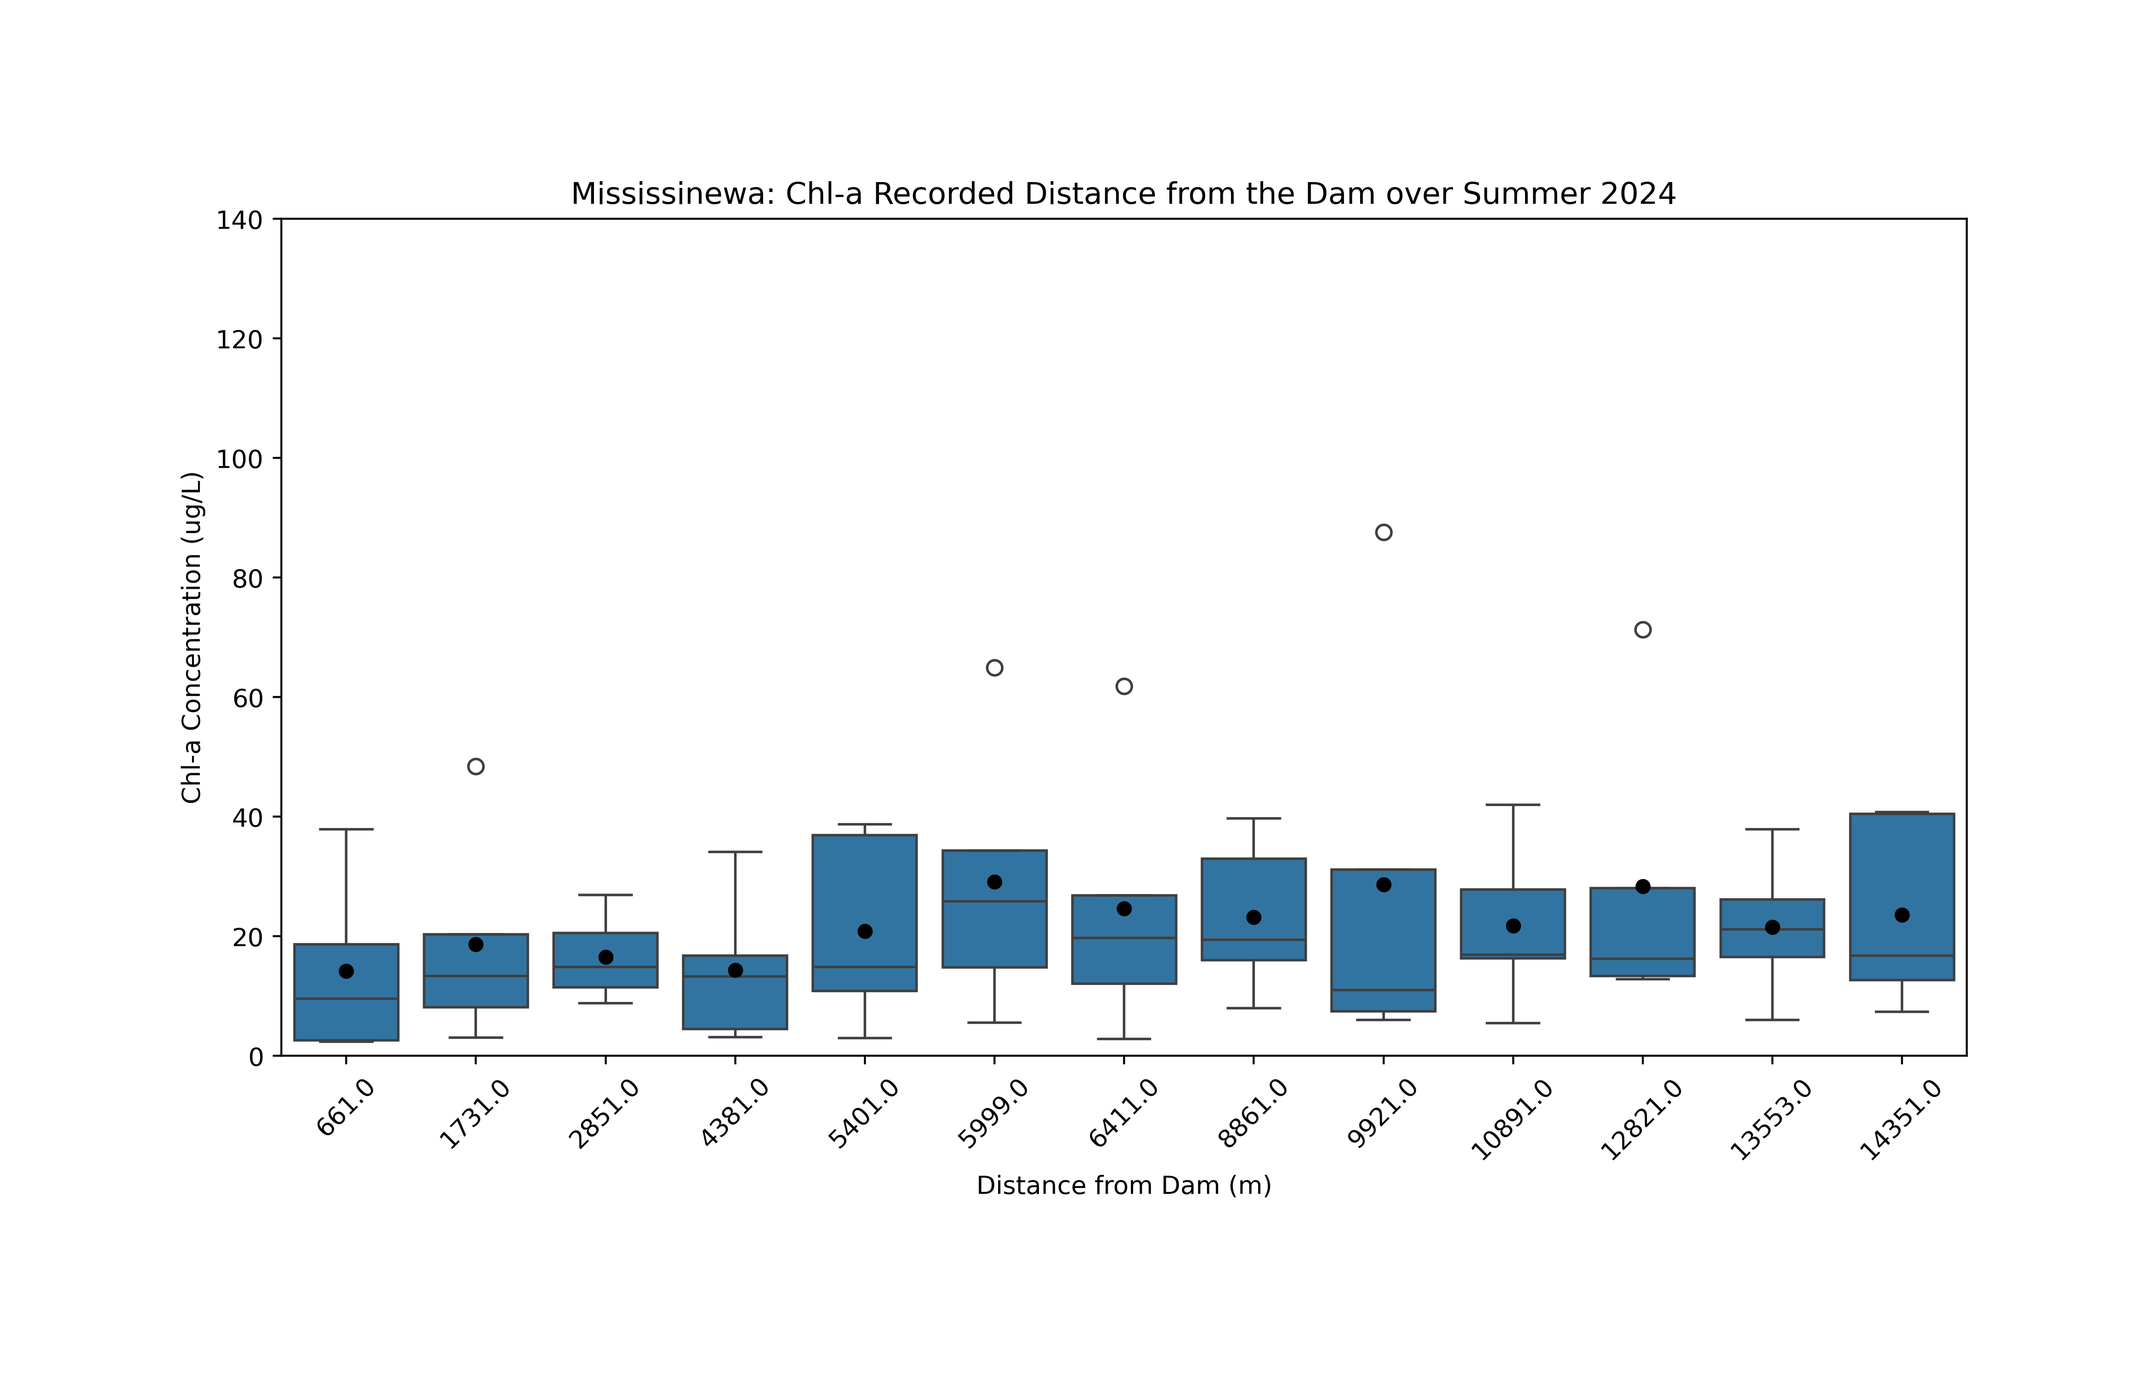
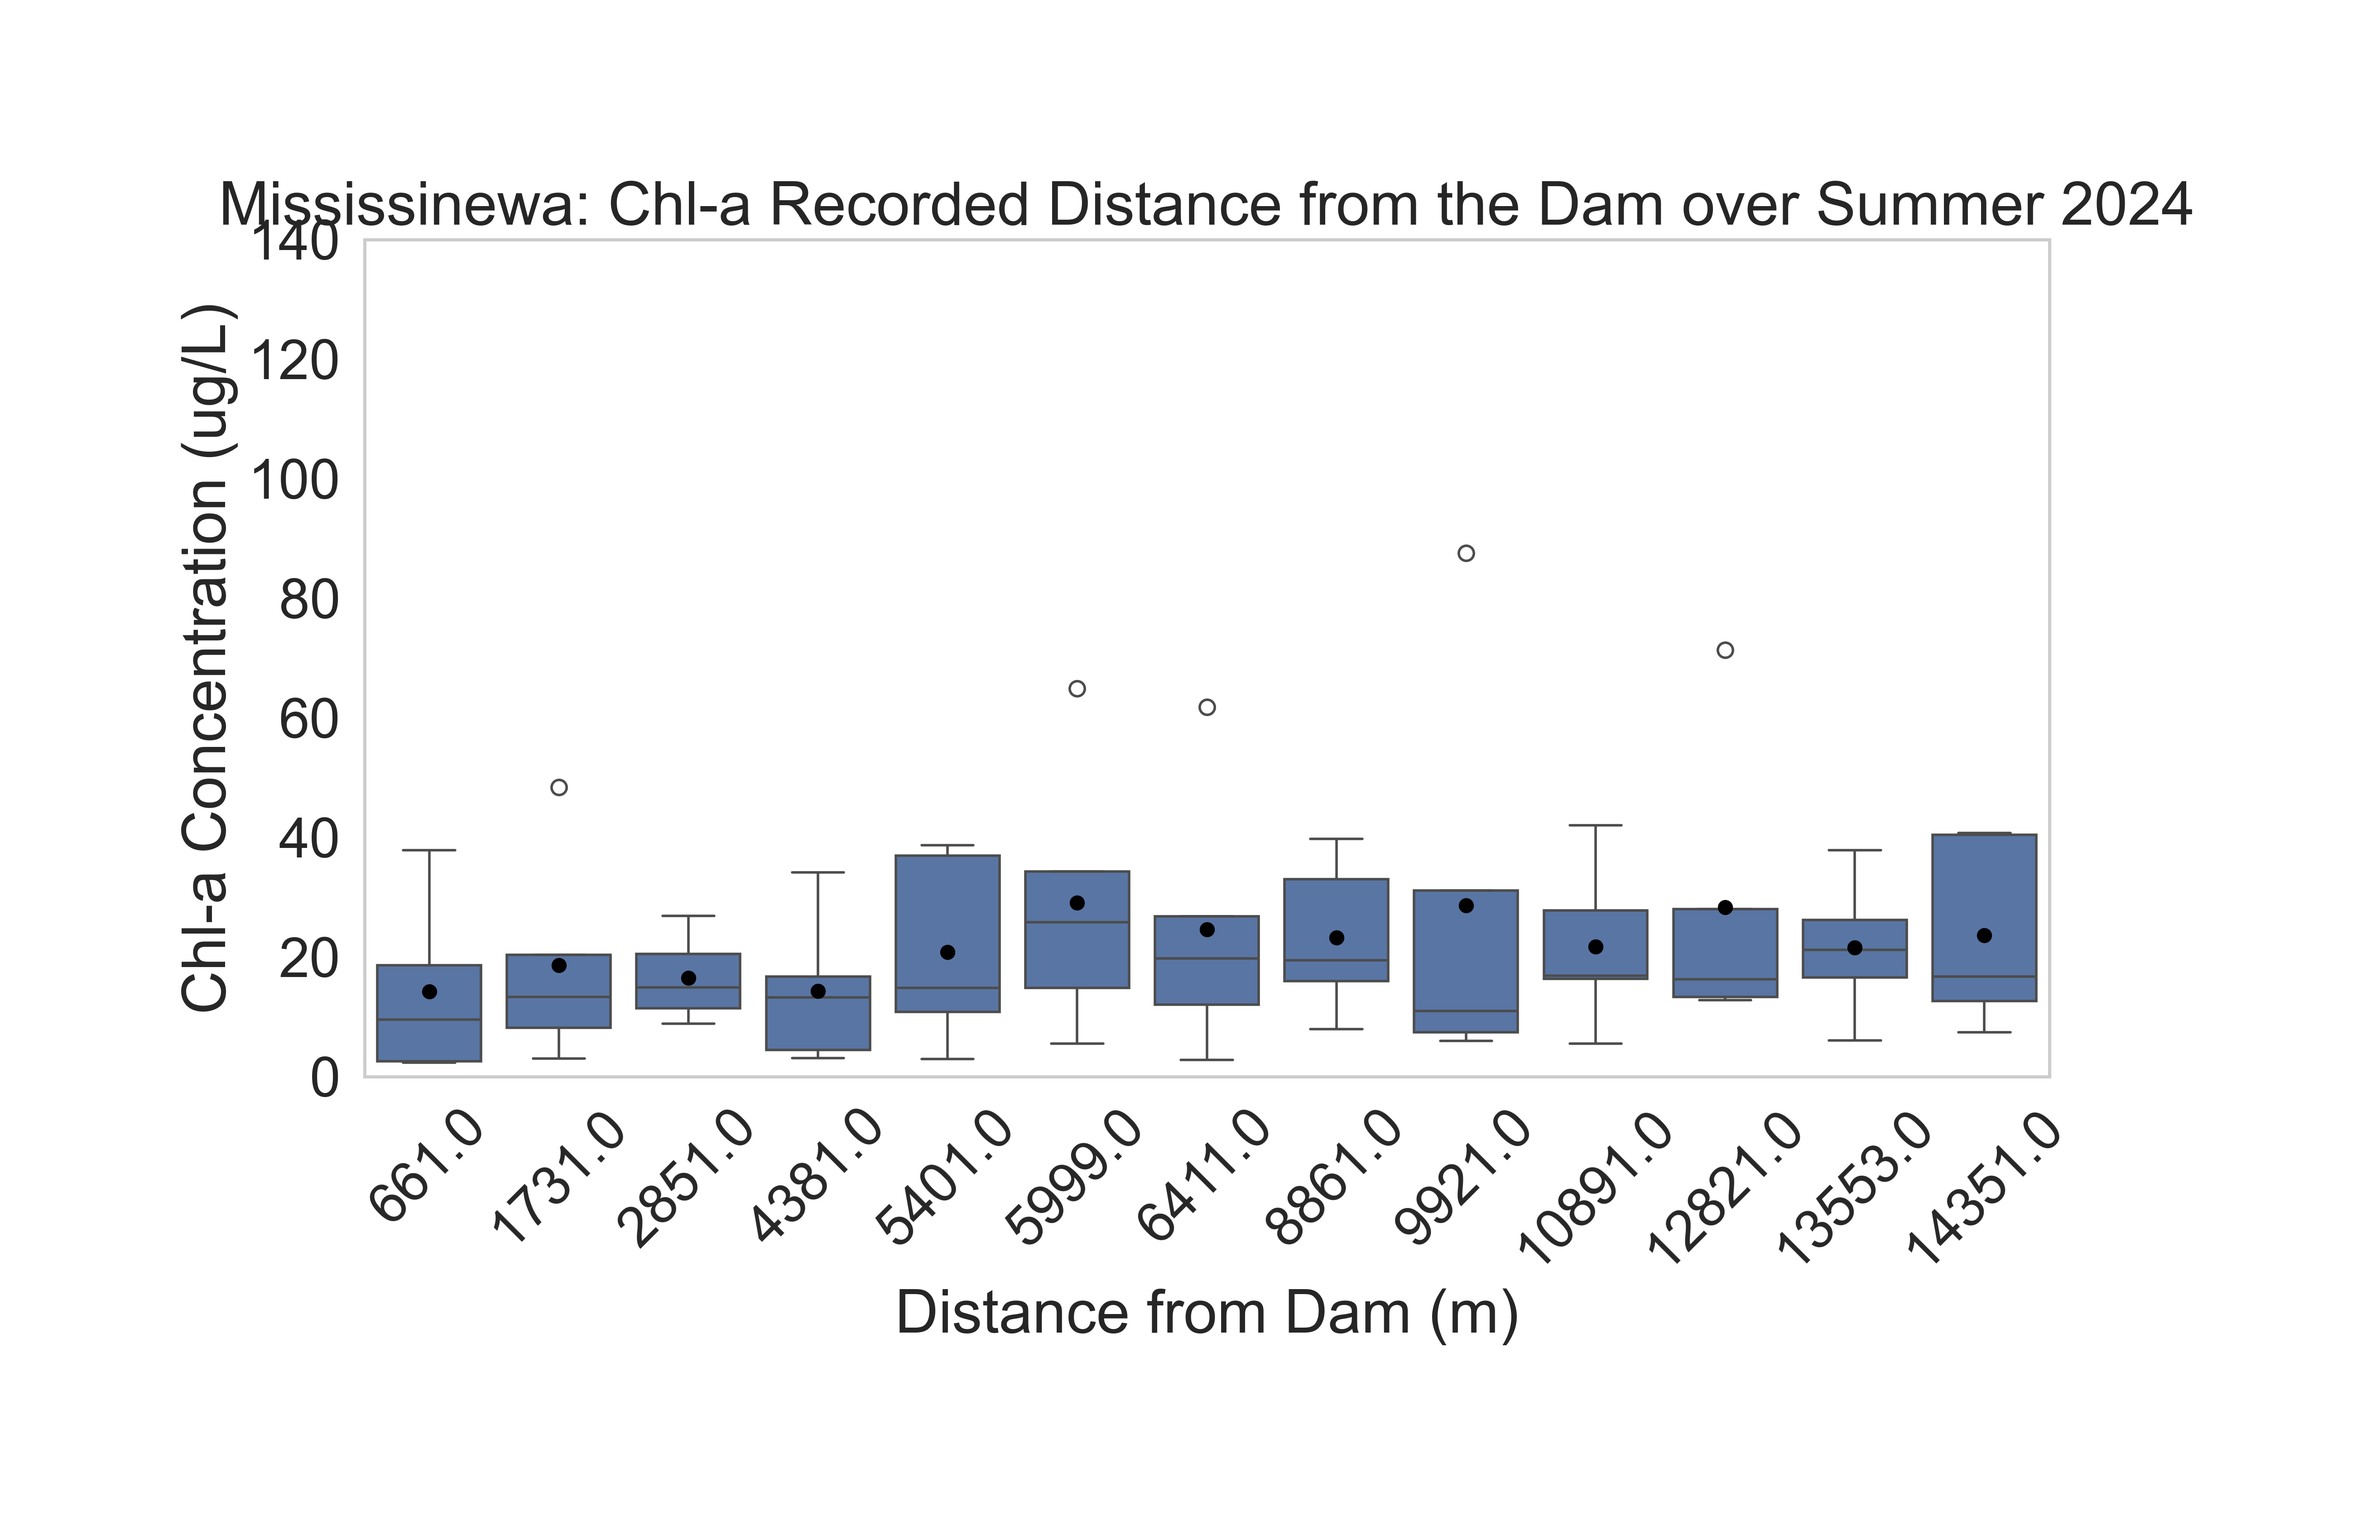
Better Graph (font)

diff --git a/Graphic_Creation.py b/Graphic_Creation.py
@@ -75,11 +75,14 @@ df_24_M = df_24[df_24['Lake ID (4 dig.)'] == 'MISS']
 #print(df_24_M)
 
 c_24 = df_24_M.dropna(subset='Chla (Avg 24 and on)')
-Mc_24 = df_24_M.dropna(subset='Microcystin BDL')
+Mc_24 = df_24_M.dropna(subset='Microcystin BDL') 
 
 
 """Graphics"""
 # making double box plots, and swarms: https://www.datacamp.com/tutorial/python-boxplots
+
+sns.set(font_scale=2) #set font size larger https://www.statology.org/seaborn-font-size/
+sns.set_style("whitegrid", {'axes.grid':False}) # get rid of grey gid https://stackoverflow.com/questions/26868304/how-to-get-rid-of-grid-lines-when-plotting-with-seaborn-pandas-with-secondary
 
 
 # 2025 Additional
